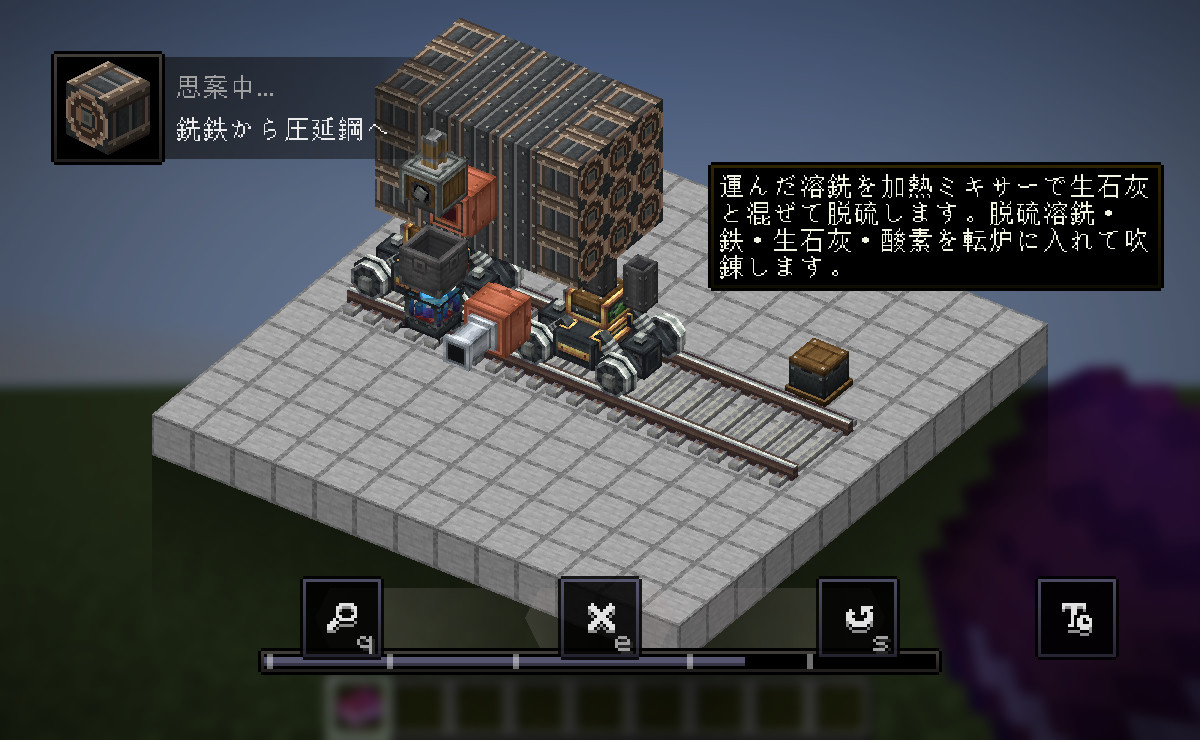
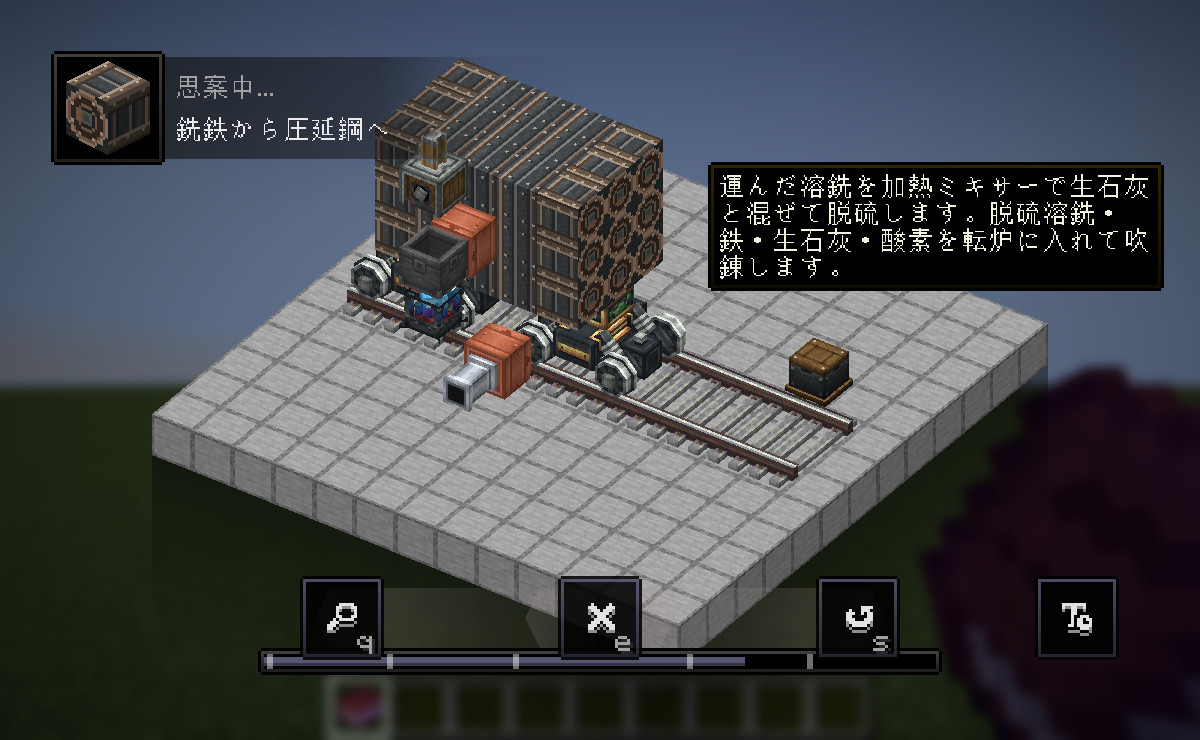
Record the direct-bogey torpedo Ponder check

Changed region(s): [[0.3083, 0.0311, 0.555, 0.5595], [0.8633, 0.4973, 1.0, 0.7149]]

diff --git a/docs/reports/torpedo-tank-bogeys-2026-11-26.md b/docs/reports/torpedo-tank-bogeys-2026-11-26.md
@@ -1,0 +1,8 @@
+# トーピードカーを台車に直載せ
+
+実装コミットは `3038861d2b843d83a40a0ea4d3c37c4484925337`。Modのバージョンは `0.3.2`。
+
+- Ponderのテンプレートから鉄骨7個を取り除き、高さ3・幅3・長さ5のタンク全体を1段下げた。両台車の直上にタンクの底面が接する。列車側インターフェース、駅側インターフェース、配管も1段ずつ下げた。
+- `tools/generate_torpedo_ponder.py` が更新したテンプレートに合わせ、`SteelworksPonderScenes` の表示、部品の強調、列車の移動範囲を修正した。
+- テンプレートにはタンク部品45個、直上に底面がある台車2個、向かい合う流体インターフェース2個があり、鉄骨が含まれないことを確認した。
+- Gradleビルドが完了し、RTX 4060の日本語クライアントでPonderの表示と車両移動を確認した。[更新後のゲーム内画像](../quality/steelworks/torpedo-car.jpg)
